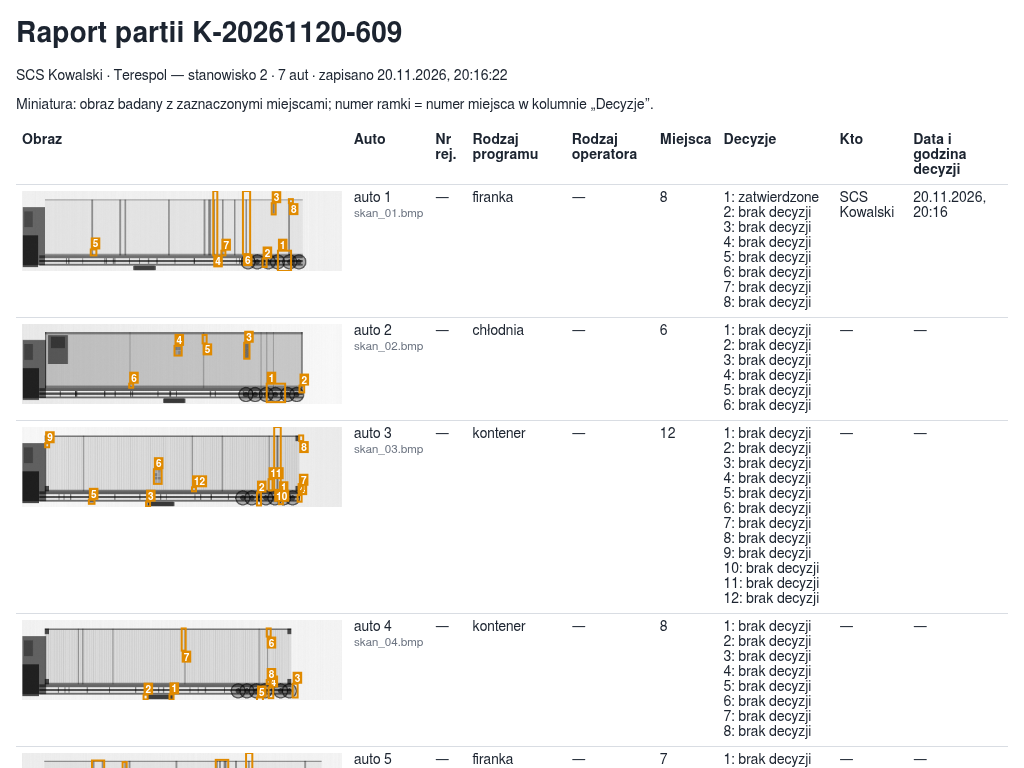
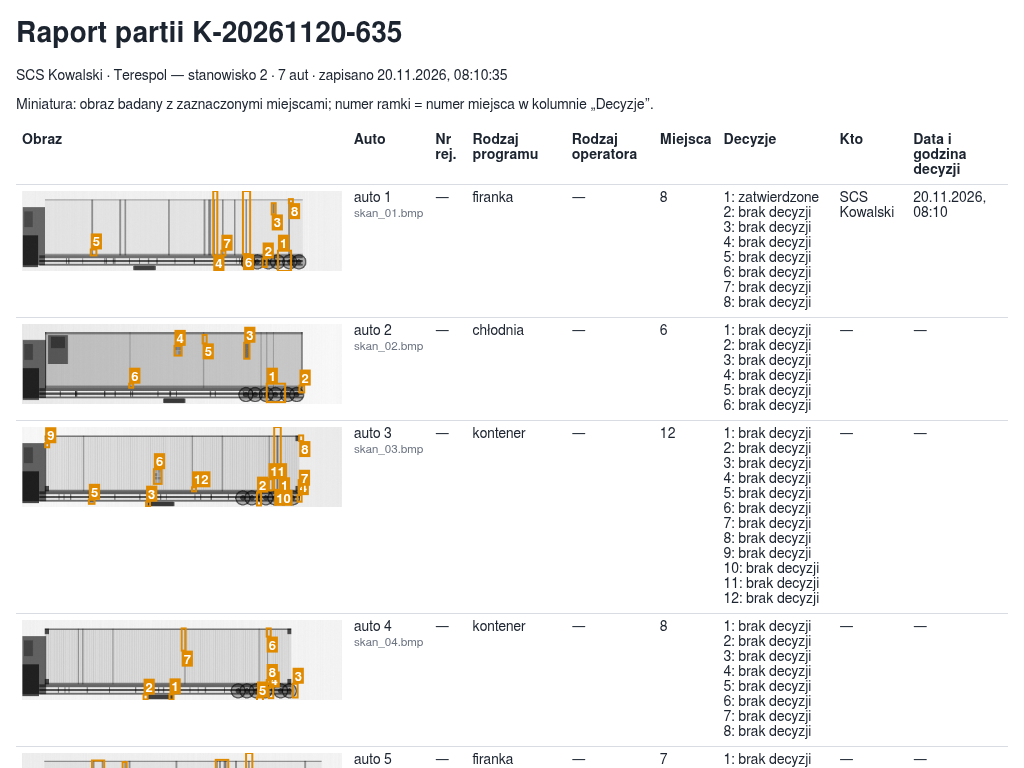
Programista: 44 oddane, 45 start usługi, 49 final, komendy uruchomienia dla 46

diff --git a/docs/decyzje.md b/docs/decyzje.md
@@ -703,3 +703,12 @@ P94 08:08 Artur: Na slajdzie z wynikami jury widzi teraz jedno auto przed i po (
 08:08 Szef: 53 zamknięte (R2 Projektant: brak braków); P94 (POM-1 slajd 6) czeka na Artura
 P94 08:09 odpowiedź: B — obraz przed/po i obok krótka tabela (Artur w pokoju); slajd z wynikami: obraz + tabela z liczbami; POM-1 zamknięte; do Programisty/Prezentera: poprawka slajdu 6 według B
 08:10 Szef: 44 oddane przez Programistę (6d9b93a) — czekam na meldunek z wdrożeniem i 49; P94 B → Prezenter (slajd 6: obraz przed/po + krótka tabela); krytyk R1 technika (3 zrzuty nieczytelne, 4 zrzuty z linku nie z makiety, 6 bez języka wewnętrznego) + wykres 50 do slajdu skuteczności i README + recenzja 46/51/52 technika (988 zn. vs 947, 5,0 s nieporównywalne → usunąć albo podpisać, 45 s wysyłki w opisie formularza) + demo.md po 48 (nagranie na linku, auto 7 = 11 miejsc, liczenie partii ok. 90 s → nagranie z cięciem albo od policzonej partii) → Prezenter, potem krytyk R2 (Analityk); napis auta 6 w materiałach = napis z linku „obejrzyj ręcznie” (program zamrożony, materiały do stanu faktycznego); braki produkt (5 botów, douczanie) u Projektanta → Artur
+08:11 Programista: biorę zadanie 45 i 44 (równoległe).
+08:11 Programista: zadanie 45 — usługa na stałe uruchomiona o 08:04 (zegar OMENa 21:04:35), zlecenie zgl-5171 (sesja programista45-usluga, gpu-tlo, --rdzenie 2, bez --wylaczne), komenda: `PYTHONPATH=src:. python -m usluga.serwer --host 0.0.0.0 --bezczynnosc 0`. Uwaga: samo pominięcie --bezczynnosc NIE wystarcza — domyślnie usługa gaśnie po 10 min (serwer.py:214); „0 = nigdy”. Linia z usługi: „Prześwit: http://0.0.0.0:8770  cuda NVIDIA GeForce GTX 1050 … bezczynność 0.0 min”. Pierwsza próba (zgl-5170, 08:02) zgasła przy sprawdzaniu karty przez orkiestrator („WĘZEŁ · karta żywa — zadania GPU zwolnione”), druga wstała. Dowód po 15 min bez ruchu — osobny wpis.
+08:11 Programista: oddaję zadanie 44 — gotowe. Na linku (v=33, commit 6d9b93a, wdrożenie nrd26uv9vgc3nvujzps9b07k finished): miniatura w „Raporcie partii” 320 px jak w pobranym raporcie; numery miejsc pogrubione 13 px na pasku 16 px (było 10/12; ta sama miniatura idzie do raport-partii.html); telefon (≤600 px): wiersze raportu jako karty z podpisami pól, miniatura na całą szerokość. `sh strona/testy/odbior-44-klik.sh` → „WYNIK: odbiór 44 na https://hacknation.ksefbot.pl — wszystko ok” (1280 px: 7× 320 px, nadmiar szerokości strona/karta/tabela 0/0/0; 390 px: 7× 320 px, 0/0/0). Odbiór 43 kliknięciami powtórzony: „WYNIK: odbiór 43 … wszystko ok” (.json/.csv pola bez zmian, .html 239 KB, 7 miniatur). Testy strony (OMEN, zgl-5175): „ℹ tests 17 ℹ pass 17 ℹ fail 0”. Link 200. Zrzuty E7: docs/zrzuty/mvp/link-44-E7-1280.png, link-44-E7-390.png (link-43-* odświeżone).
+08:11 Programista: zadanie 49 — znacznik `final` (z opisem) na 6d9b93a = commit wdrożony pod linkiem po 44, wypchnięty (`git ls-remote origin refs/tags/final` → 2c9c4e9 refs/tags/final). Po wdrożeniu: link 200, /api/zdrowie karta ok (cuda, GTX 1050), /api/partia-pokazowa?nr=0 → 200 w 641 ms. Odtworzenie: `git checkout final` + uruchomienie jak niżej (dla README, Prezenter).
+08:11 Programista: do zadania 46 — uruchomienie lokalne, sprawdzone (strona: lokalnie na porcie 3044 + odbiór 44 i 43 kliknięciami — ok; usługa: ta sama komenda na OMENie, zgl-5171):
+  1) usługa (karta NVIDIA, Python 3 z `pip install -r requirements.txt`): `PYTHONPATH=src:. python -m usluga.serwer --host 127.0.0.1 --port 8770 --bezczynnosc 0` → „Prześwit: http://127.0.0.1:8770 cuda …”; sprawdzenie: `curl http://127.0.0.1:8770/zdrowie` → `{"ok": true, …}`
+  2) strona (Node 22): `cp mvp/widok-auta/widok.js strona/public/ && PORT=3000 OMEN_URL=http://127.0.0.1:8770 node strona/serwer.mjs` → otwórz http://localhost:3000/ (albo Docker: `docker build -t przeswit . && docker run -p 3000:3000 -e OMEN_URL=http://<adres usługi>:8770 przeswit`)
+  3) testy: `node --test strona/testy/serwer.test.mjs strona/testy/budzik.test.mjs` (17/17); odbiór kliknięciami: `sh strona/testy/odbior-44-klik.sh http://localhost:3000`
+  Uwaga: sama usługa pod :8770/ też podaje stronę, ale bez widok.js (404) — widok auta nie działa; używać strony z punktu 2.
